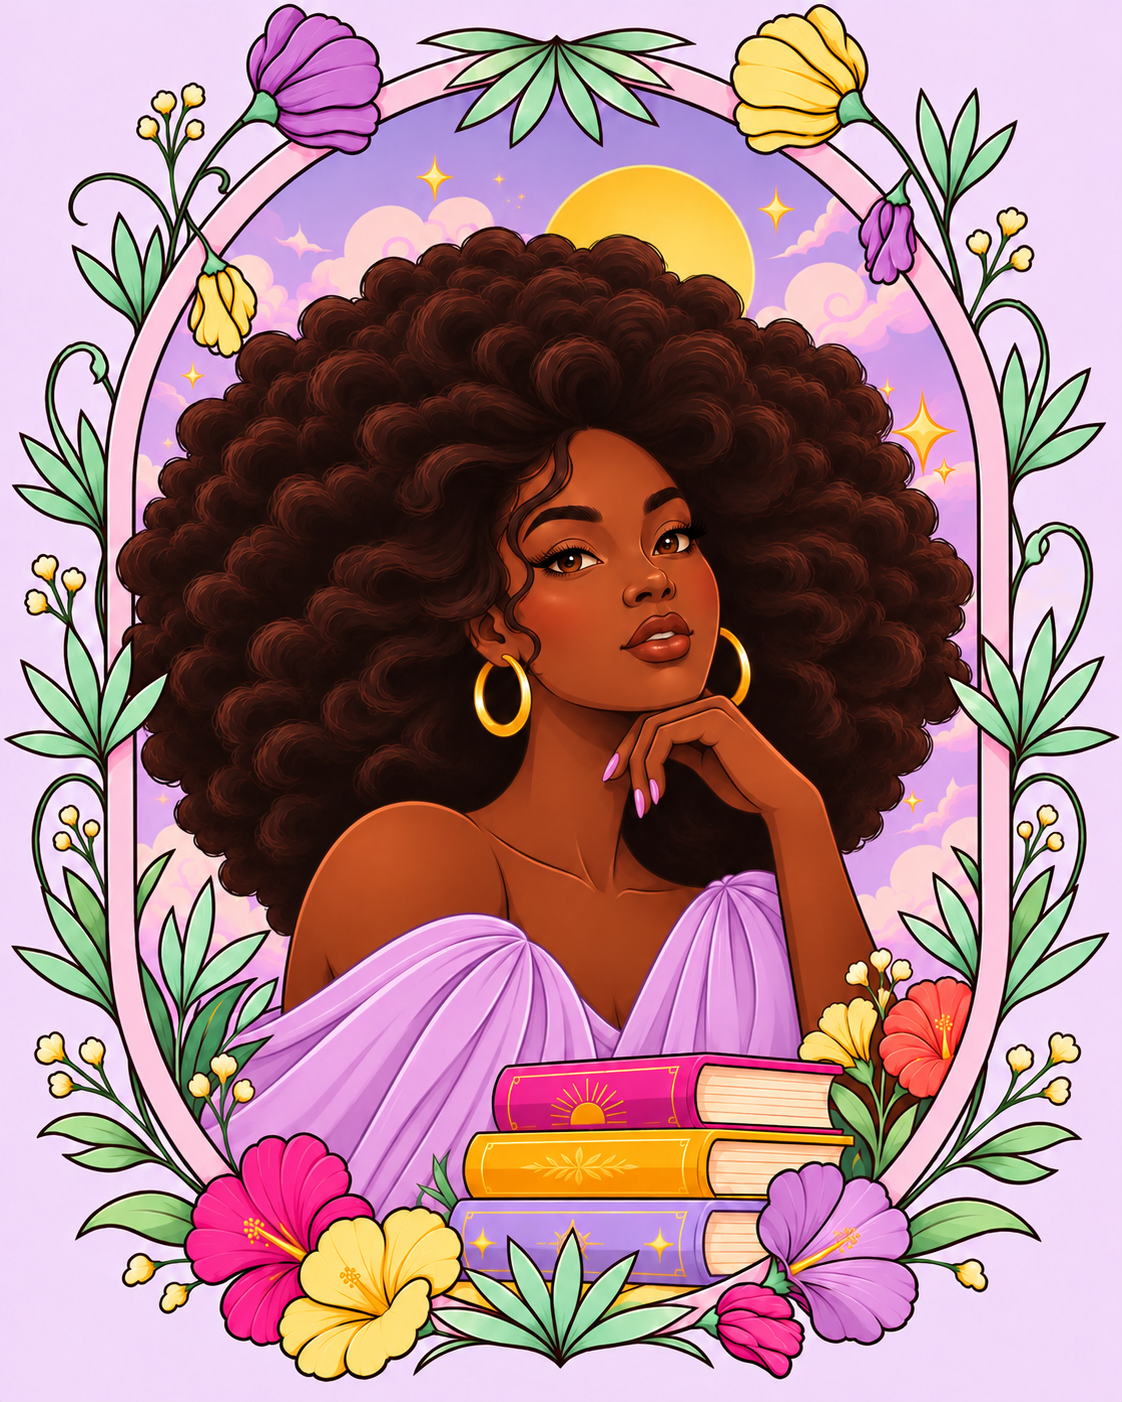
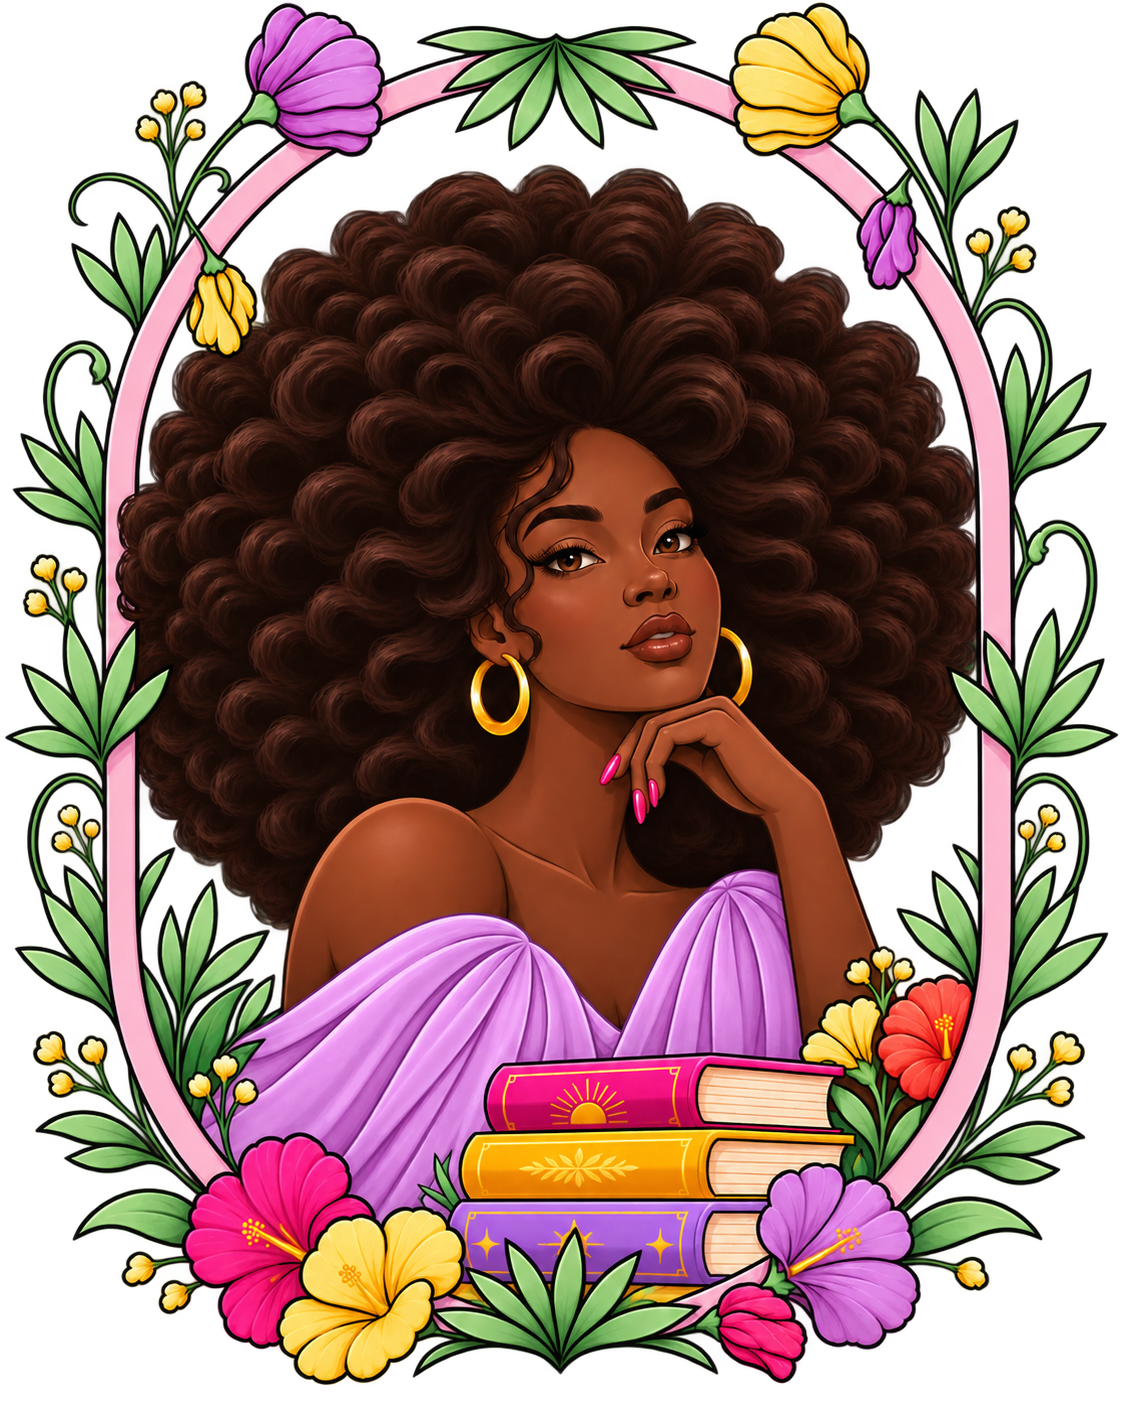
Transparent portrait illustration with colored oval behind it

diff --git a/app/about/page.tsx b/app/about/page.tsx
@@ -115,7 +115,8 @@ export default async function AboutPage() {
         </div>
         <div className="relative mx-auto w-full max-w-[17rem] sm:max-w-xs">
           <div className="relative">
-            <Image src="/images/modishye-portrait.png" alt="Illustration of Yeyeside: a woman with a full natural afro, gold hoop earrings and a lavender dress, resting her chin on her hand beside a stack of books, inside an oval frame of flowers and leaves" width={1122} height={1402} sizes="(min-width: 768px) 20rem, 70vw" className="h-auto w-full rounded-card border-2 border-ink shadow-[4px_4px_0_#1a1917]" priority />
+            <div className="absolute left-[10.5%] right-[13.5%] top-[4.5%] bottom-[8.5%] -z-10 rounded-full bg-lavender" aria-hidden="true" />
+            <Image src="/images/modishye-portrait.png" alt="Illustration of Yeyeside: a woman with a full natural afro, gold hoop earrings and a lavender dress, resting her chin on her hand beside a stack of books, inside an oval frame of flowers and leaves" width={1122} height={1402} sizes="(min-width: 768px) 20rem, 70vw" className="h-auto w-full" priority />
           </div>
           <span className="stamp absolute -bottom-3 left-4 bg-paper text-ink">Only child · 3 passports</span>
         </div>

diff --git a/components/Hero.tsx b/components/Hero.tsx
@@ -54,13 +54,14 @@ export function Hero({ shelves }: { shelves: Shelf[] }) {
 
           <div className="relative mx-auto w-full max-w-[18rem] sm:max-w-xs md:max-w-sm">
             <div className="rise relative" style={{ "--delay": "300ms" } as React.CSSProperties}>
+              <div className="absolute left-[10.5%] right-[13.5%] top-[4.5%] bottom-[8.5%] -z-10 rounded-full bg-gold" aria-hidden="true" />
               <Image
                 src="/images/modishye-portrait.png"
                 alt="Illustration of Yeyeside: a woman with a full natural afro, gold hoop earrings and a lavender dress, resting her chin on her hand beside a stack of books, inside an oval frame of flowers and leaves"
                 width={1122}
                 height={1402}
                 sizes="(min-width: 768px) 24rem, 70vw"
-                className="h-auto w-full rounded-card border-2 border-ink shadow-[4px_4px_0_#1a1917]"
+                className="h-auto w-full"
                 priority
               />
             </div>
